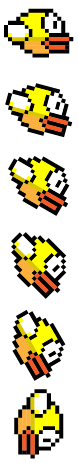
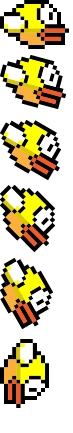
Add project files.

diff --git a/DemoSDL/DemoSDL.cpp b/DemoSDL/DemoSDL.cpp
@@ -4,8 +4,7 @@
 #include"Block.h"
 
 
-SDL_Texture* gBackground;
-
+SDL_Texture* gBackground,*gBackgroundBelow;
 bool init() {
 	bool check = true;
 	int ret = SDL_Init(SDL_INIT_VIDEO);	
@@ -41,6 +40,9 @@ void LoadBackGround() {
 	gBackground = LoadImageTexture("Image/BackGround.png", gScreen);
 }
 
+void LoadBackGroundBelow() {
+	gBackgroundBelow = LoadImageTexture("Image/BackGround_Below.png", gScreen);
+}
 
 void Close() {
 	SDL_DestroyRenderer(gScreen);
@@ -58,9 +60,12 @@ int main(int argc, char* argv[]) {
 
 	SDL_SetRenderDrawColor(gScreen, RENDER_DRAW_COLOR, RENDER_DRAW_COLOR, RENDER_DRAW_COLOR, RENDER_DRAW_COLOR);
 	LoadBackGround();
+	LoadBackGroundBelow();
+	srand(time(NULL));
 
 	Block gBlock[20];
-	int add_ = 250;
+	int add_ = rand();
+	add_ = (add_ % 100) + 250;
 	for (int i = 0; i < 20; i++) {
 		gBlock[i].Set_up_block(gScreen);
 		gBlock[i].block_rect.x = gBlock[i].block_rect.x + add_ * i;
@@ -68,13 +73,17 @@ int main(int argc, char* argv[]) {
 
 
 	SDL_Rect screen_rect = { 0,0,1200,672 };
-	srand(time(NULL));
-	
+
+	SDL_Rect screen_below_rect = { 0,552,1200,150 };
+	SDL_Rect below_rect = { 0,0,1200,150 };
+
 	Bird gBird;
 	gBird.set_up(gScreen);
-	int y_bird = 200;
+	int y_bird = 200, x_bird = 200;
 	bool quit = false;
 	int animation_bird = 0;
+
+	int stop = 0;
 	while (!quit) {
 		while (SDL_PollEvent(&gEvent) != 0)
 		{
@@ -86,6 +95,7 @@ int main(int argc, char* argv[]) {
 
 		SDL_RenderClear(gScreen);
 
+		SDL_RenderCopy(gScreen, gBackgroundBelow, &screen_below_rect, &below_rect);
 		SDL_RenderCopy(gScreen, gBackground, NULL, &screen_rect);
 
 		if (gEvent.type == SDL_QUIT) quit = true;
@@ -108,7 +118,7 @@ int main(int argc, char* argv[]) {
 			}
 		}
 
-		animation_bird++; 
+		animation_bird++;
 		if (animation_bird >= 84) gBird.status_ = 0;
 		if (gBird.status_ == 1) {
 			gBird.current_frame_ = animation_bird / 14;
@@ -123,23 +133,46 @@ int main(int argc, char* argv[]) {
 		else y_bird = y_bird - 1;
 
 
-		gBird.Show(gScreen, { 200,y_bird,77,77 });
 
-		for (int i = 0; i < 20; i++) {
-			if (CheckCollision({ 200,y_bird,77,77 }, gBlock[i].block_rect)) {
-				SDL_Delay(5000);
+		if (stop == 0)
+			for (int i = 0; i < 20; i++) {
+				gBlock[i].block_rect.x--;
+				gBlock[i].Show_block(gScreen);
 			}
+		else
+			for (int i = 0; i < 20; i++) {
+				gBlock[i].Show_block(gScreen);
+			}
+
+		gBird.Show(gScreen, { x_bird,y_bird,gBird.bird_width_,gBird.bird_height_ });
+		if (stop == 0)
+			for (int i = 0; i < 20; i++) {
+				if (CheckCollision({ x_bird,y_bird,gBird.bird_width_,gBird.bird_height_ }, gBlock[i].block_rect)) {
+					stop = 1;
+					if (x_bird <= gBlock[i].block_rect.x) {
+						x_bird = gBlock[i].block_rect.x;
+					}
+					break;
+				}
+				else
+					if (CheckCollision({ x_bird,y_bird,gBird.bird_width_,gBird.bird_height_ }, gBlock[i].rect_fix)) {
+						stop = 1;
+						if (x_bird <= gBlock[i].block_rect.x) {
+							x_bird = gBlock[i].block_rect.x;
+						}
+						break;
+					}
+			}
+		if (stop == 1) {
+			y_bird += 3;
+		}
+		if (y_bird >= 552) {
+			SDL_Delay(500);
 		}
 
-
-
-		for (int i = 0; i < 20; i++) {
-			gBlock[i].block_rect.x--;
-			gBlock[i].Show_block(gScreen);
-		}
 		SDL_Delay(4);
 		SDL_RenderPresent(gScreen);
-	}  
+	}
 	Close();
 	return 0;
 }

diff --git a/DemoSDL/MainObject.h b/DemoSDL/MainObject.h
@@ -8,9 +8,10 @@ class Bird
 {
 public:
 	SDL_Texture* t_up, * t_down;
-	int  height_frame_, width_frame_, status_, current_frame_;
+	int  height_frame_, width_frame_, status_, current_frame_, bird_width_, bird_height_;
 	void set_up(SDL_Renderer* des);
 	void Show(SDL_Renderer* des, SDL_Rect rect_);
+	void show_dead_(SDL_Renderer* des,SDL_Rect rect_);
 private:
 	 
 };
@@ -26,10 +27,47 @@ void Bird::set_up(SDL_Renderer* des) {
 }
 
 void Bird::Show(SDL_Renderer* des, SDL_Rect rect_) {
-	SDL_Rect show_rect_ = { 0,77 * current_frame_,77,77 };
-	if (status_ == 1) SDL_RenderCopy(des, t_up, &show_rect_, &rect_);
-	else if (status_ == 0) SDL_RenderCopy(des, t_down, &show_rect_, &rect_);
+	SDL_Rect show_rect_ = { 0,0,0,0 };
+	if (status_ == 1) {
+		if (current_frame_ == 0) show_rect_ = { 0,0,69,49 };
+		else if (current_frame_ == 1) show_rect_ = { 0,52,71,53 };
+		else if (current_frame_ == 2) show_rect_ = { 0,107,71,53 };
+		else if (current_frame_ == 3) show_rect_ = { 0,169,66,55 };
+		else if (current_frame_ == 4) show_rect_ = { 0,230,60,61 };
+		else if (current_frame_ == 5) show_rect_ = { 0,300,54,67 };
+
+
+		SDL_RenderCopy(des, t_up, &show_rect_, &rect_);
+	}
+	if (status_ == 0) {
+		if (current_frame_ == 0) show_rect_ = { 0,0,69,49 };
+		else if (current_frame_ == 1) show_rect_ = { 0,50,66,54 };
+		else if (current_frame_ == 2) show_rect_ = { 0,120,61,60 };
+		else if (current_frame_ == 3) show_rect_ = { 0,185,55,67 };
+		else if (current_frame_ == 4) show_rect_ = { 0,258,53,71 };
+		else if (current_frame_ == 5) show_rect_ = { 0,339,49,69 };
+
+
+		SDL_RenderCopy(des, t_down, &show_rect_, &rect_);
+	}
+
+	bird_height_ = show_rect_.h;
+	bird_width_ = show_rect_.w;
 }
 
+void Bird::show_dead_(SDL_Renderer* des, SDL_Rect rect_) {
+	SDL_Rect show_rect_;
+	if (current_frame_ == 0) show_rect_ = { 0,0,60,49 };
+	else if (current_frame_ == 1) show_rect_ = { 0,50,66,54 };
+	else if (current_frame_ == 2) show_rect_ = { 0,120,61,60 };
+	else if (current_frame_ == 3) show_rect_ = { 0,185,55,67 };
+	else if (current_frame_ == 4) show_rect_ = { 0,258,53,71 };
+	else if (current_frame_ == 5) show_rect_ = { 0,339,49,69 };
+
+
+	bird_height_ = show_rect_.h;
+	bird_width_ = show_rect_.w;
+	SDL_RenderCopy(des, t_down, &show_rect_, &rect_);
+}
 
 #endif // !MAINOBJECT__H_

diff --git a/DemoSDL/Display.h b/DemoSDL/Display.h
@@ -13,30 +13,6 @@ SDL_Texture* LoadImageTexture(string path, SDL_Renderer* screen) {
 	return new_texture;
 }
 
-/*bool CheckCollision(const SDL_Rect bird_check, const SDL_Rect block_check) {
-	int bird_top_left_x = bird_check.x;
-	int bird_top_left_y = bird_check.y;
-	int bird_top_right_x = bird_check.x + bird_check.w;
-	int bird_top_right_y = bird_check.y;
-	int bird_bottom_left_x = bird_check.x;
-	int bird_bottom_left_y = bird_check.y + bird_check.h;
-	int bird_bottom_right_x = bird_check.x + bird_check.w;
-	int bird_bottom_right_y = bird_check.y + bird_check.h;
-
-	int block_on_top_left_x = block_check.x;
-	int block_on_top_left_y = 0;
-	//int block_on_top_right_x = block_check.x + block_check.w;
-	//int block_on_top_right_y = block_check.y;
-	int block_below_bottom_left_x = block_check.x;
-	int block_below_bottom_left_y = block_check.y + block_check.h;
-	int block_below_bottom_right_x = block_check.x + block_check.w;
-	int block_below_bottom_right_y = block_check.y + block_check.h;
-
-	if () {
-		return false;
-	}
-}*/
-
 bool CheckCollision(const SDL_Rect& object1, const SDL_Rect& object2)
 {
     int left_a = object1.x;

diff --git a/DemoSDL/Block.h b/DemoSDL/Block.h
@@ -7,13 +7,13 @@ class Block
 {
 public:
 	SDL_Texture* block_on, * block_below;
-	SDL_Rect block_rect;
+	SDL_Rect block_rect, rect_fix;
 	void Show_block(SDL_Renderer* des);
 	void Set_up_block(SDL_Renderer* des);
 private:
 
 };
-
+         
 
 void Block::Set_up_block(SDL_Renderer* des) {
 	block_on = LoadImageTexture("Image/On.png", des);
@@ -29,7 +29,7 @@ void Block::Set_up_block(SDL_Renderer* des) {
 void Block::Show_block(SDL_Renderer* des) {
 	SDL_Rect show_block_rect_on = { 0,0,86,400 };
 	SDL_Rect show_block_rect_below = { 0,0,86,400 };
-	SDL_Rect rect_fix = block_rect;
+	rect_fix = block_rect;
 
 	rect_fix.y = block_rect.y + 555;
 	SDL_RenderCopy(des, block_on, &show_block_rect_on, &block_rect);

diff --git a/DemoSDL/CommonFunction.h b/DemoSDL/CommonFunction.h
@@ -6,7 +6,7 @@
 #include<string>
 #include<SDL_image.h>
 #include<SDL.h>
-#include<time.h>
+#include<ctime>
 
 using namespace std;
 
